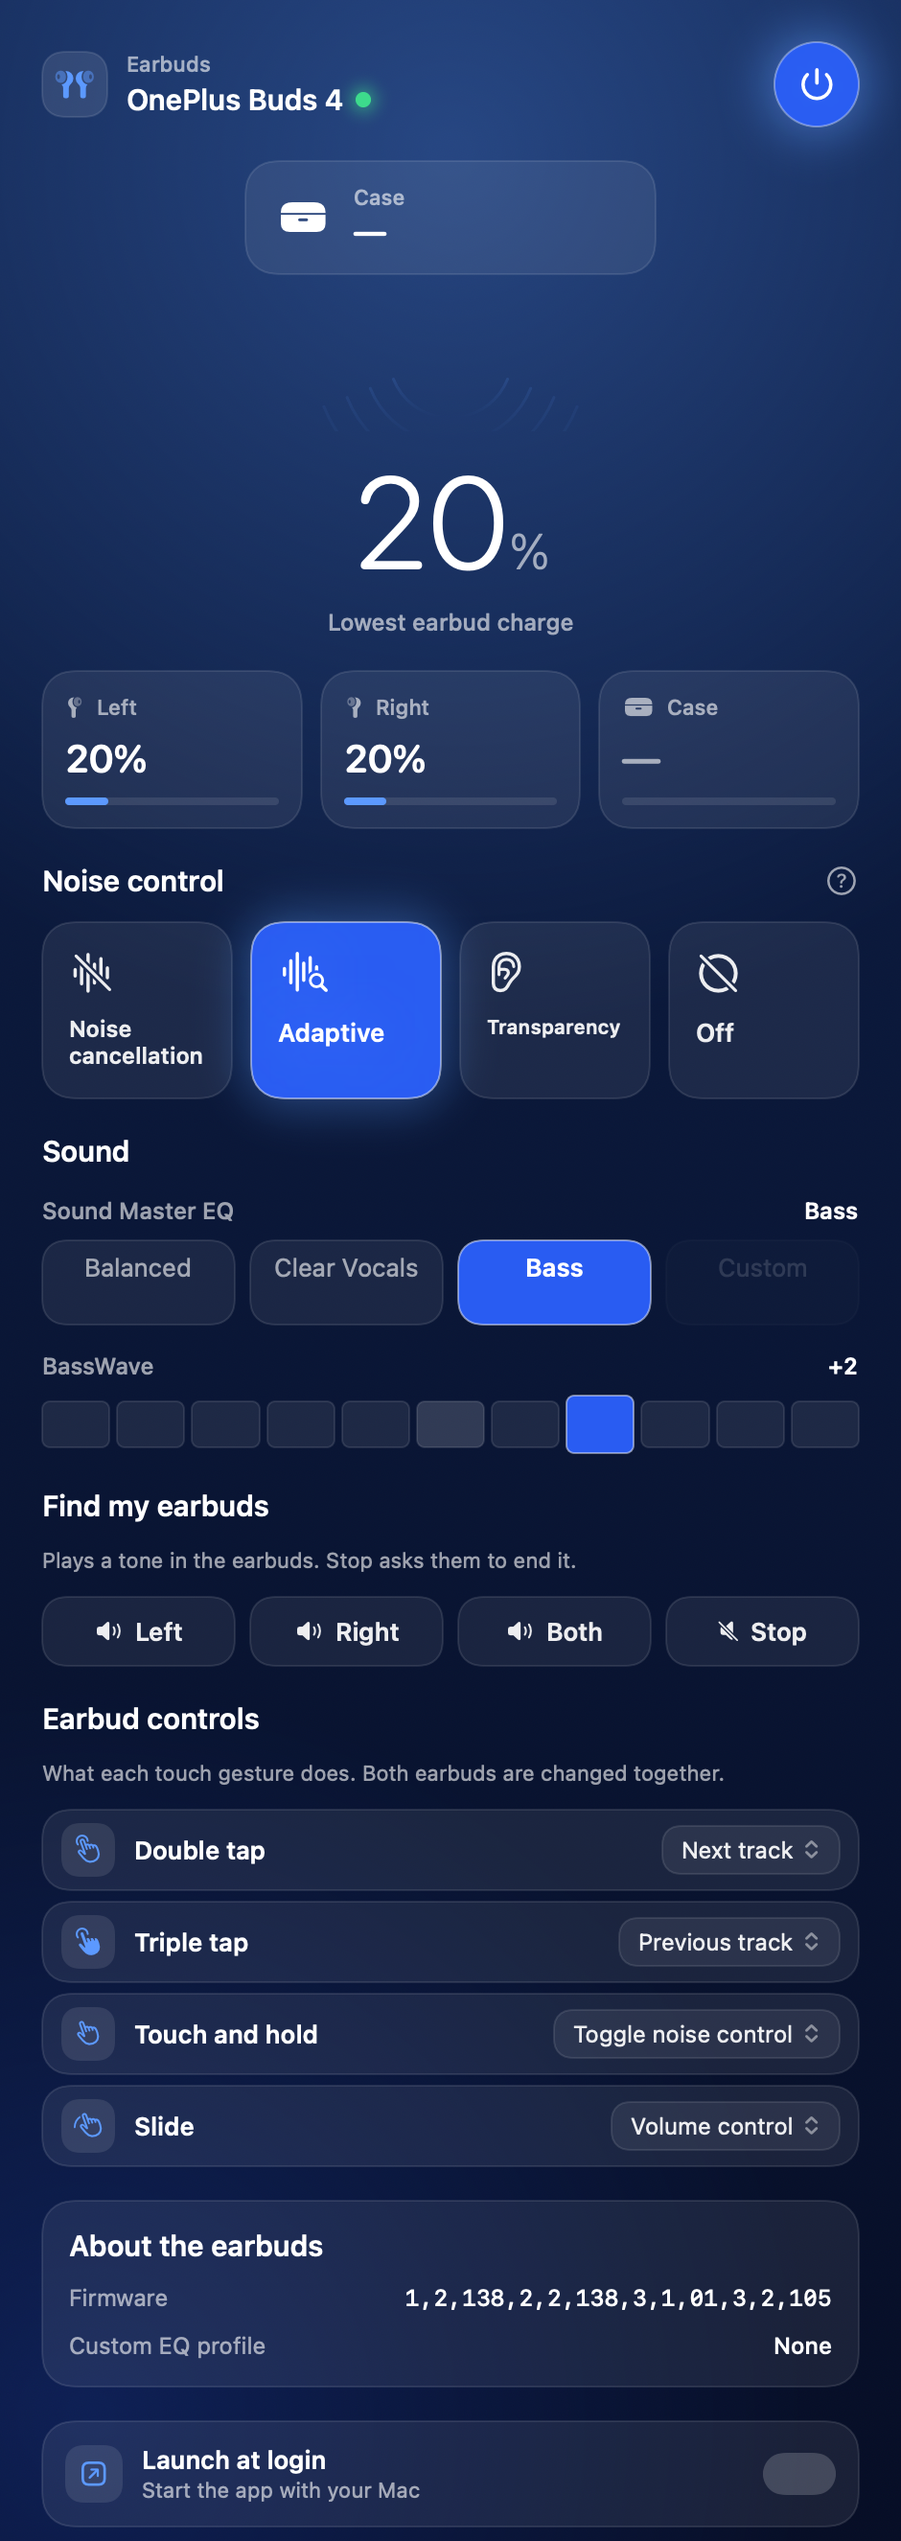
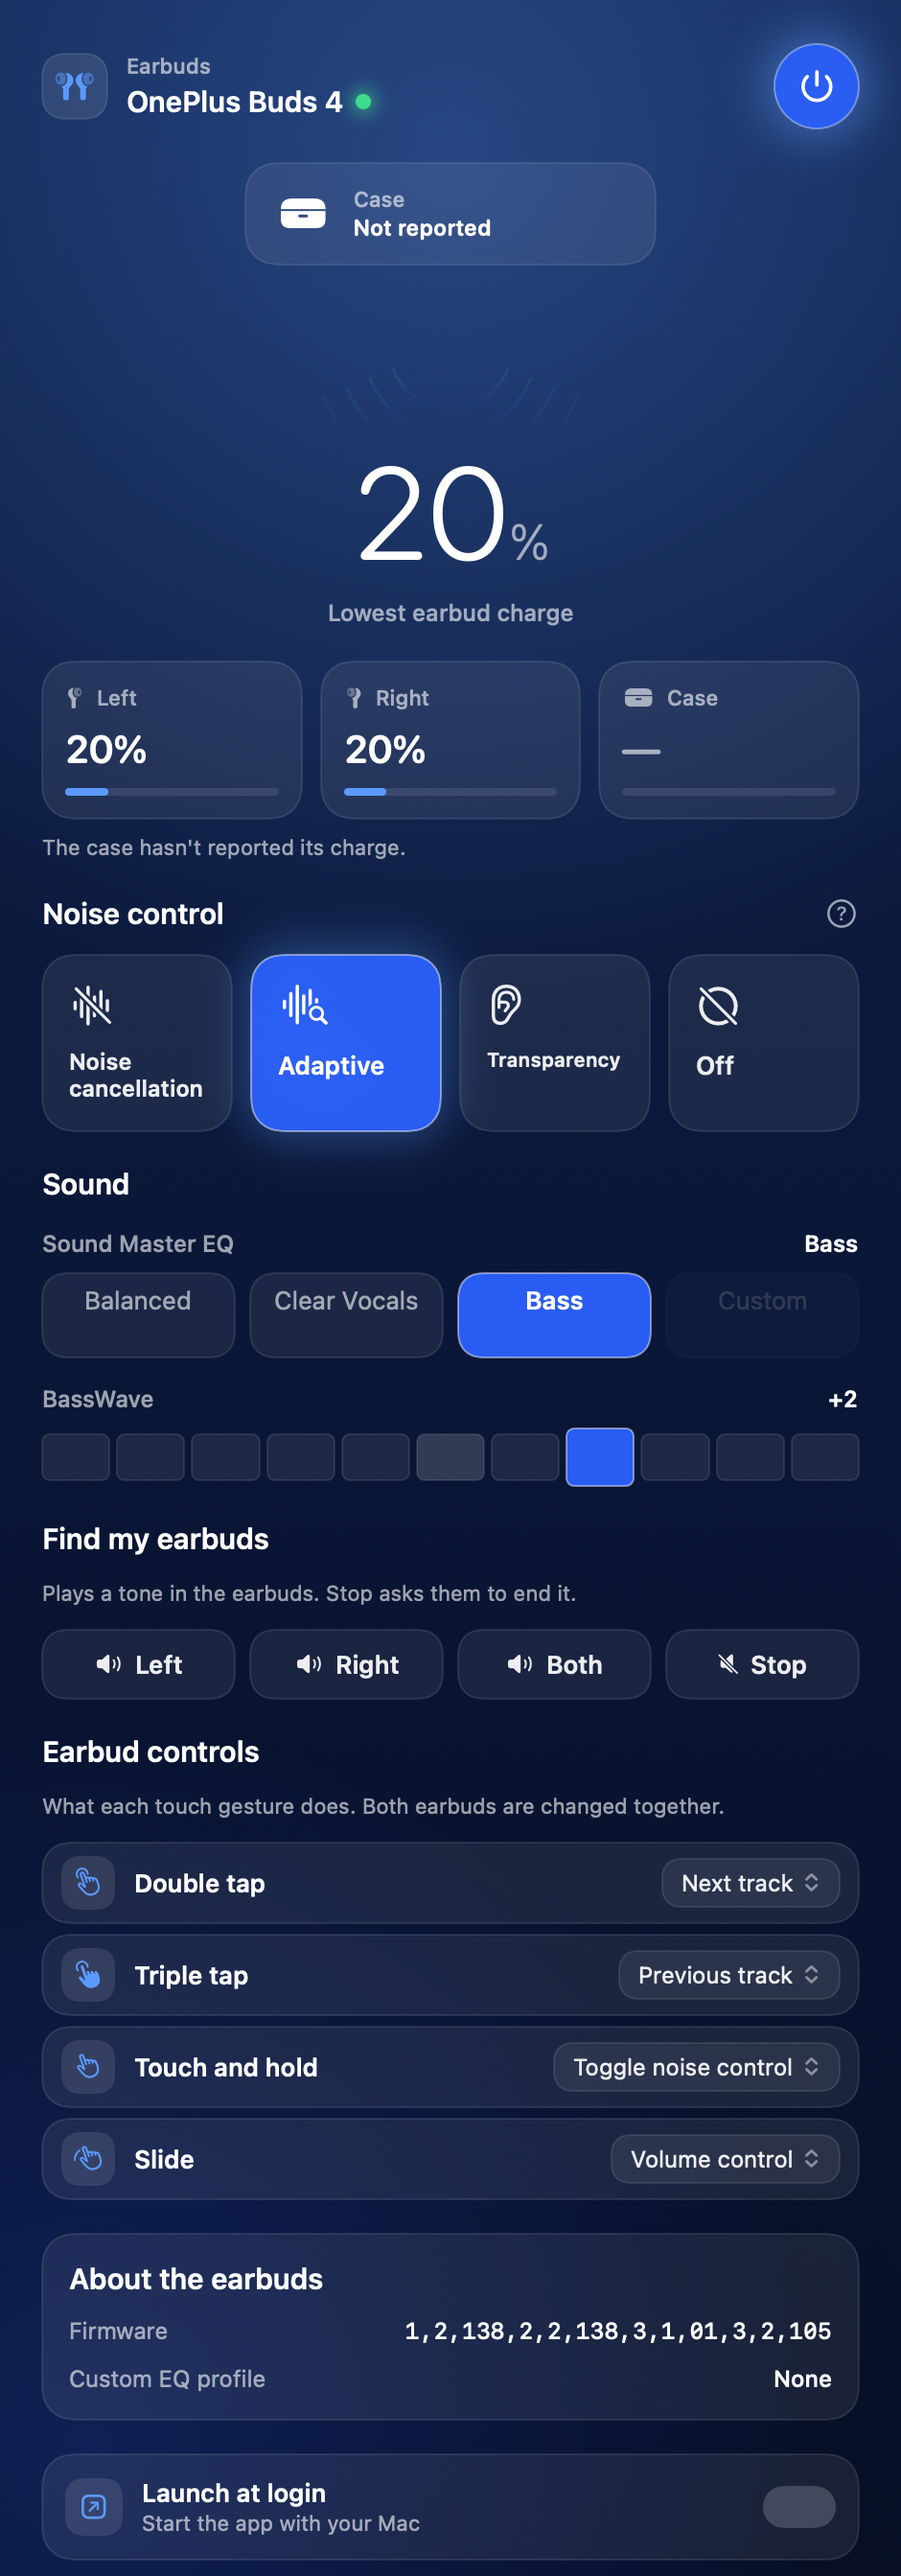
Say why the case charge is missing instead of drawing a dash
The hero pill sat at 'Case —' and the case chip at a bare dash, which reads as
a value that failed to load. It is not: the battery reply carries left and
right only. One session produced 60 of 60 replies with a pair count of 2 while
the wear reply named the case slot on every poll, so the case's charge is
simply not something this channel sends while the buds are out of the case.

The pill now says 'Not reported', the chips row adds one line saying the case
hasn't reported its charge, and the hero's spoken summary names the case
instead of dropping it — a reader that hears only the buds cannot tell an
absent case from an unread one. The window, panel and case-pill goldens are
re-recorded, and the README records the measurement behind the wording.

diff --git a/Sources/BudsBarKit/Controls.swift b/Sources/BudsBarKit/Controls.swift
@@ -215,6 +215,14 @@ struct BatteryChipsRow: View {
         buds.battery.left == nil && buds.battery.right == nil && !buds.isControlChannelOpen
     }
 
+    /// The case is known to be there, a bud has been read, and the case's own charge has still
+    /// not arrived — the steady state whenever the buds are out of it.
+    private var isCaseChargeUnreported: Bool {
+        buds.isCaseReported && buds.battery.enclosure == nil
+            && buds.isControlChannelOpen
+            && (buds.battery.left != nil || buds.battery.right != nil)
+    }
+
     var body: some View {
         VStack(alignment: .leading, spacing: 8) {
             HStack(spacing: 10) {
@@ -235,6 +243,17 @@ struct BatteryChipsRow: View {
 
             if isWaitingForBattery {
                 ControlsNotReady(text: "Reading the battery…")
+            }
+
+            // The case names itself in the wear report but never in the battery report — 60 of
+            // 60 replies in one session carried left and right only — so its chip sits at a
+            // permanent dash. A dash means "no reading", which is true, but on its own it reads
+            // as a value that failed to load. One sentence says which unknown this is.
+            if isCaseChargeUnreported {
+                Text("The case hasn't reported its charge.")
+                    .font(.system(size: 11))
+                    .foregroundStyle(Theme.secondary)
+                    .fixedSize(horizontal: false, vertical: true)
             }
         }
     }
@@ -284,9 +303,15 @@ struct DevicePill: View {
                 Text(title)
                     .font(.system(size: 11, weight: .medium))
                     .foregroundStyle(Theme.secondary)
-                Text(level.map { "\($0)%" } ?? "—")
-                    .font(.system(size: 17, weight: .semibold, design: .rounded))
+                // A dash here read as a number that had not arrived yet. For the case it never
+                // arrives — the buds report left and right only — so the pill says which
+                // unknown this is instead of drawing a value-shaped hole.
+                Text(level.map { "\($0)%" } ?? "Not reported")
+                    .font(.system(size: level == nil ? 13 : 17,
+                                  weight: .semibold, design: .rounded))
                     .monospacedDigit()
+                    .lineLimit(1)
+                    .minimumScaleFactor(0.9)
             }
             Spacer(minLength: 0)
         }
@@ -372,8 +397,14 @@ struct BatteryHero: View {
     private var accessibilityText: String {
         let lowest = weakest.map { "Lowest earbud battery \($0) percent" }
             ?? "Earbud battery unknown"
-        guard let enclosure = buds.battery.enclosure else { return lowest }
-        return "\(lowest). Case battery \(enclosure) percent"
+        if let enclosure = buds.battery.enclosure {
+            return "\(lowest). Case battery \(enclosure) percent"
+        }
+        // The pill says "Not reported" in this state, so the spoken summary says it too
+        // rather than dropping the case — a reader that hears only the buds cannot tell
+        // whether the case is absent or simply unread.
+        guard buds.isCaseReported else { return lowest }
+        return "\(lowest). Case battery not reported"
     }
 }
 

diff --git a/README.md b/README.md
@@ -27,7 +27,8 @@ readback against the hardware, not a display-only imitation.
 - **Sound** — Sound Master EQ (Balanced / Clear Vocals / Bass, plus the Custom slot when the
   buds actually hold a profile) and **BassWave**, a −5…+5 bass emphasis.
 - **Battery** — per-earbud and case levels, with a headline reading for the weaker bud, and
-  an AirPods-style floating popup when the buds connect.
+  an AirPods-style floating popup when the buds connect. When the case hasn't reported a
+  charge, the app says so rather than leaving a number-shaped hole.
 - **In-ear detection** — each slot reports whether that bud is in use, resting in the case,
   or being held.
 - **Find my earbuds** — rings the left, the right, or both, and offers a Stop that asks the
@@ -226,6 +227,13 @@ reads from `0x24` — and a setter's payload is its getter's reply payload minus
 byte, which is why one set of decoders serves both. The community write-ups credited at the
 end of this file are what the format was cross-checked against; the captured corpus is what
 settled it, and `swift test` is what keeps it settled.
+
+One thing the corpus settled by repetition: **the battery reply carries left and right only.**
+Over a single session, 60 of 60 battery replies had a pair count of 2 while the wear reply named
+the case slot on every poll — so the case's charge is not something this channel sends while the
+buds are out of the case, whatever the phone app reads it from. The app still draws a case chip,
+because the wear report is real evidence that a case is there, but it labels that chip "Not
+reported" instead of leaving a dash that reads like a value still loading.
 
 ## Releasing
 
